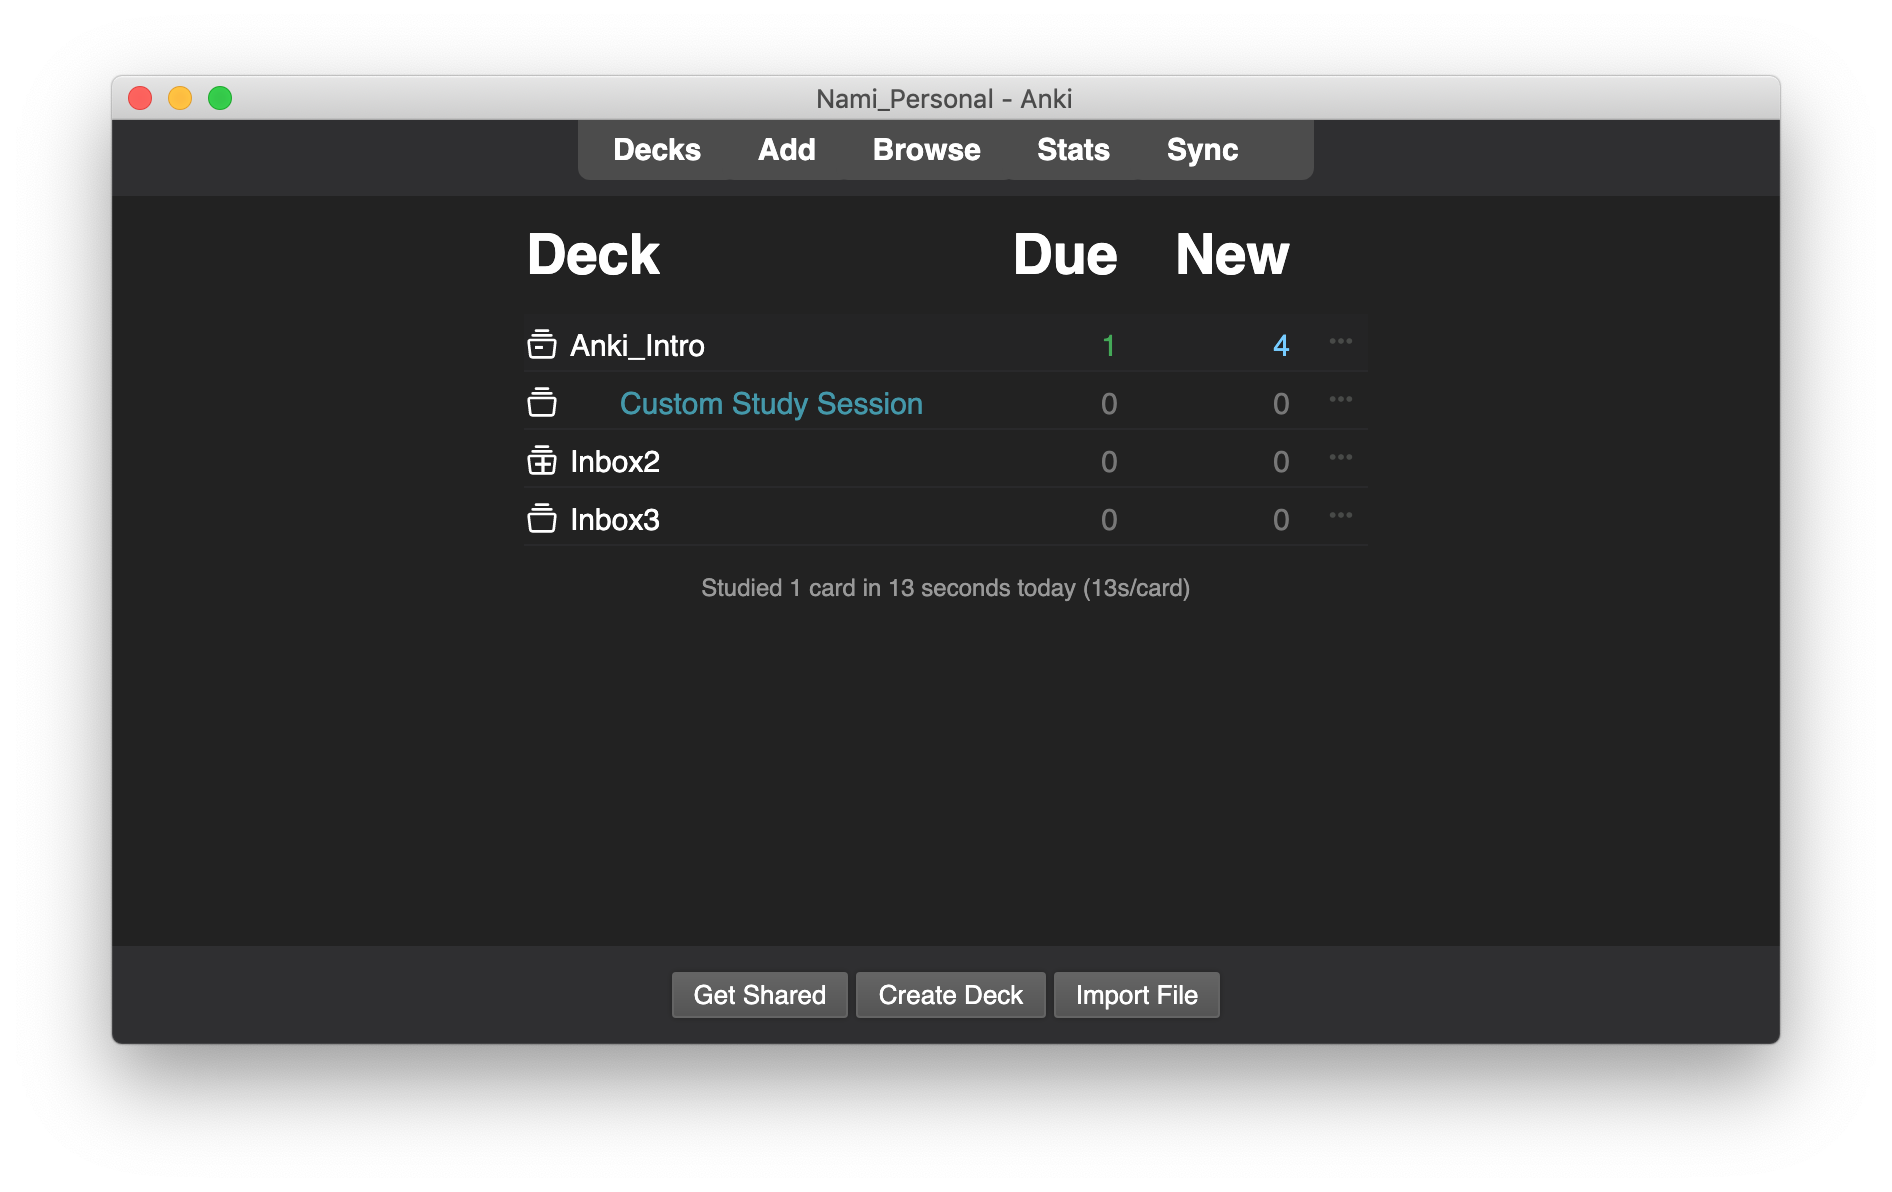
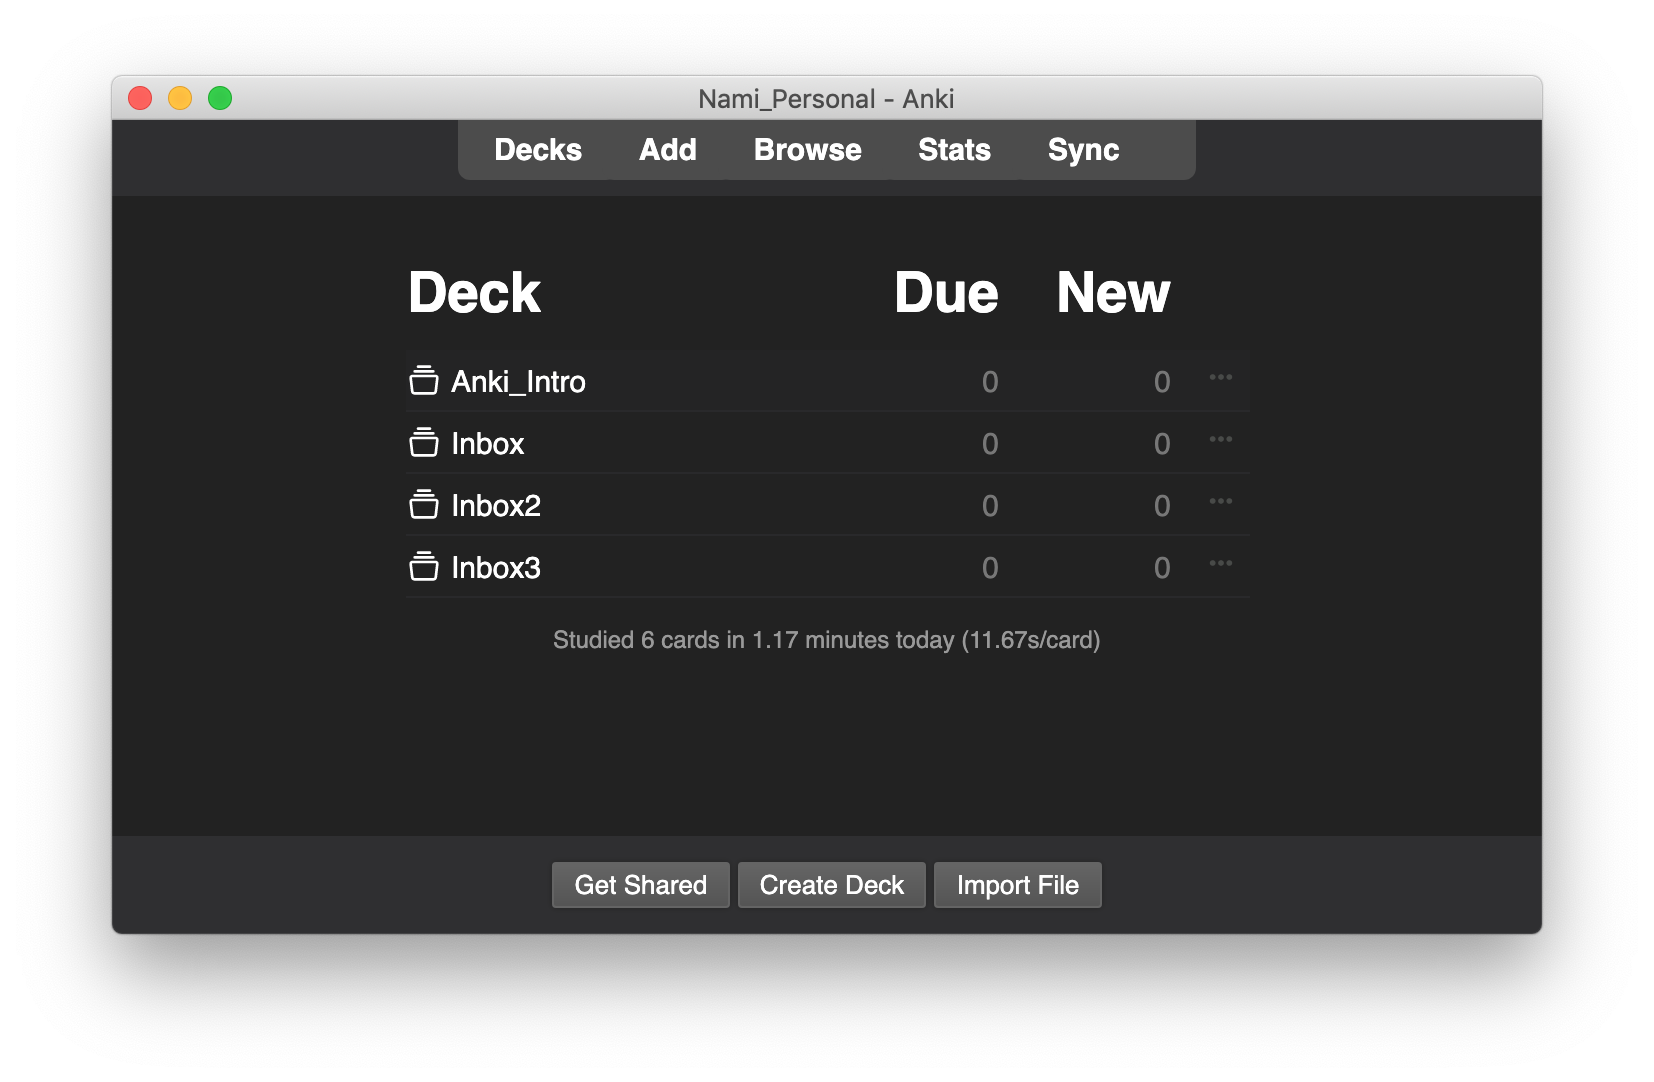
fix <th> space

diff --git a/user_files/css/custom_deckbrowser.css b/user_files/css/custom_deckbrowser.css
@@ -16,15 +16,12 @@ a.deck:hover {
   font-weight: bold;
 }
 
-
 tr{
 	color: #333;
 	font-size: 28px;
 	border: 1px solid;
-	/* background-color: #555; */
 	vertical-align: bottom;
 	vertical-align: text-bottom;
-	/* line-height: 1em; */
 	white-space:nowrap; 
 }
 
@@ -32,9 +29,12 @@ tr{
 		color: #fff;
 }
 
-tr td{
-	line-height: 0.2em;
-	vertical-align: ;
+tr th{
+	padding-top: 20px;
+}
+
+.top-level-drag-row{
+	line-height: 0.1em;
 }
 
 tr.deck td:first-child:before{

diff --git a/README.md b/README.md
@@ -34,8 +34,8 @@ I'm working on partial CSS to change the appearance of anki. This project is bas
 
 Due to the limitation of css, here's something hard to solve
 
-- [ ] In deckbrowse, the `tr` element's vertical start position.
-- [ ] In deckbrowse, the whitespace after `tr` element .Because the source code use `<br>` in `tr` to makes a extra line.
+- [x] ~~In deckbrowse, the `th` element's vertical start position.~~
+- [x] ~~In deckbrowse, the whitespace after `th` element .~~
 - [ ] I can't make cards icon follow decktree. Because source code makes indent by adding &nbsp.
 - [ ] In toolbar, I can't fix width of each `hitem` ,though it's inline-block.
 - [ ] In toolbar, the icon after `sync` is invisible but still takes up a place.
